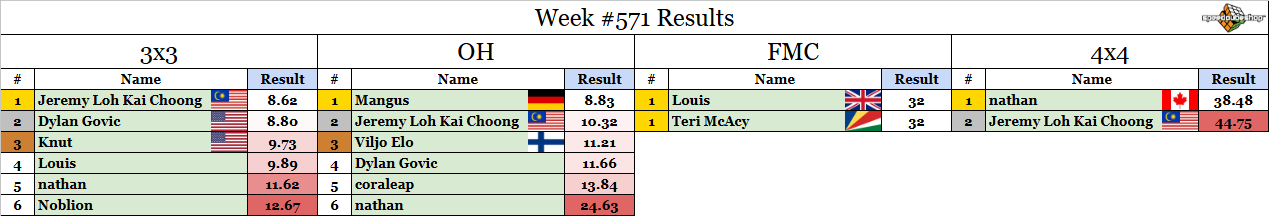
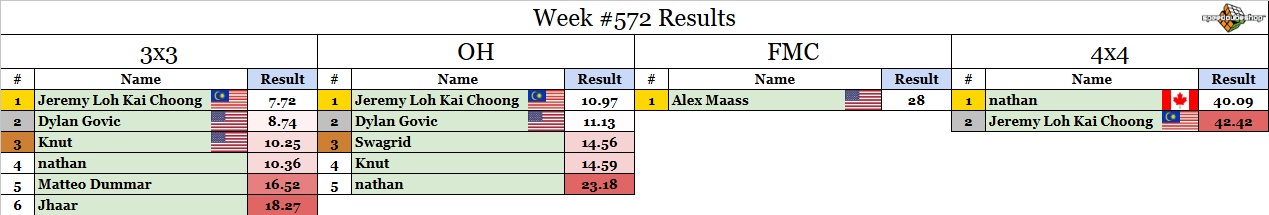
weekly comp update

diff --git a/src/weeklycomp/post.md b/src/weeklycomp/post.md
@@ -1,8 +1,8 @@
-## Weekly Competition #572 
+## Weekly Competition #573 
  
 This weekly competition is proudly sponsored by SpeedCubeShop.com. One competitor will be selected at random to receive a $5 SCS gift card! 
  
-Congrats to last week's winner by a random draw: **nathan**. DM me for the prize. 
+Congrats to last week's winner by a random draw: **Alex Maass**. DM me for the prize. 
  
 Check whether or not you participated this week yet at [https://bit.ly/RMSWeeklyCompSummary](https://bit.ly/RMSWeeklyCompSummary)  
  
@@ -16,30 +16,28 @@ Check whether or not you participated this week yet at [https://bit.ly/RMSWeekly
  7. The comp runs until Sunday 5pm Eastern time (more or less). Enter your times using the forms links below. 
  
 ### 3x3: [Submission Form](https://forms.gle/H5xoCWvGKnZ92fQt8) 
- 1. R' B L F' D2 F' R2 F D' L2 F2 R2 B L2 U2 B D2 B2 R2 
- 2. U2 B2 R' B2 L' D2 U2 F2 R2 D2 R' D2 B' U B2 U2 B' D' U2 L F' 
- 3. L F2 L2 U2 L2 D' U2 F2 L2 D' U' L' B2 U B' U2 F U2 L2 R 
- 4. F' D2 F2 R' F2 U2 L2 U2 L U2 R' F2 B D' U2 B2 R F L D2 
- 5. D2 U2 F D2 B D2 F L2 F D2 R2 D' B U B L2 F2 L F2 R' 
+ 1. B2 L D2 R' U2 L' R2 U2 L D2 B2 U2 F' U L' U B' R D F D' 
+ 2. B2 L U2 F' D B' U' L' F2 L' B2 L2 F2 L' U2 F2 D2 L2 F L' 
+ 3. D L D' R2 F2 R2 B2 U2 R2 D' L2 F2 D2 R D R' U2 R' B' U R' 
+ 4. R F U2 B2 R2 D' R2 U' L2 U' B2 D' L2 D' B' L R U2 F' R2 U2 
+ 5. B2 U2 L' R' D2 L' B2 F2 R D2 F2 R D' R' U B R' U L B U 
  
 ### OH: [Submission Form](https://forms.gle/UgRLW3K1d5KkMGfM9) 
- 1. U' R B L' F' R' D R2 D2 L' B2 U2 B2 R2 B2 R' B2 R D R2 
- 2. D' R B2 L2 D2 B2 R2 D' B2 U B2 D2 R2 B2 F' D' F2 R B F' D2 
- 3. U2 D R B U R' U D2 R F2 D2 B2 R D2 R D2 F2 U2 F2 D 
- 4. L2 D L2 U2 B U2 B L2 F' R2 B U2 L2 F' U' B L R2 B2 F U 
- 5. U B2 R' D' L2 R2 D' F2 D' R2 U B2 R2 F2 L' F R D2 R2 D' B 
+ 1. F2 L' B2 L2 D B2 U' R2 U' B2 R2 U B2 D2 F' D' L' B' D2 B F' 
+ 2. R2 F2 U B' L U2 L' B2 L2 U F2 R2 U F2 D2 L2 F2 U2 F' D 
+ 3. R2 D L' B2 U F' D' B D' F2 L D2 R U2 D2 L2 U2 B2 L F2 R2 
+ 4. D2 R' F2 L U2 R U2 R D2 U2 B D B R F2 U2 F' R' U 
+ 5. F D2 L D F' R D B2 R' D2 F2 R F2 L' D2 L' D2 F2 R2 U 
  
 ### FMC: [Submission Form](https://forms.gle/1P9VUgZmA1pibwvL9) 
- 1. R' U' F U' D L D' B' R' F' U D R2 F2 R2 D L2 F2 U F2 D2 F' L2 R' U' F 
+ 1. R' U' F L' D2 R2 F2 D2 F2 U2 F2 R2 F' U2 R2 L' F2 R' D' U2 B' U L' F2 R' U' F 
  
 ### 4x4: [Submission Form](https://forms.gle/bHNjncvEcPvFWBP2A) 
- 1. D2 R2 D2 L2 F2 U2 F' L2 F2 B2 D2 F U2 D L' D B U F U F' Rw2 D F2 Fw2 U' L Fw2 U2 R' B2 R' Fw2 Rw2 B2 Fw' U2 R D' Uw L2 Rw2 F2 Uw Fw' U2 
- 2. F D2 B2 R2 F2 R' D2 B2 D2 F2 R2 U' F' B D2 R U F2 U F2 Fw2 R F' Rw2 Fw2 R' F Uw2 F2 R' L' B2 D2 Uw' Rw2 U2 L B' Rw2 Uw Fw' U' Uw B Rw' 
- 3. F2 L' D2 L2 B D2 B2 D2 L2 F' U2 R2 B2 D' L F2 B' R D' L' D' Rw2 U' B' U' D L2 Rw2 F2 B' Fw2 Uw2 B2 Rw' F Uw2 Rw F D2 F2 Fw L' Uw Rw' B R' 
- 4. U2 F L2 F U2 L2 F2 R2 U2 B' U2 D2 L' B' D' L2 D2 L2 F2 B Rw2 U F2 Fw2 U2 L' Fw2 Rw2 D2 R U2 R Fw L' U D' F2 Uw' Rw' U F2 Fw2 Rw2 U2 D' 
- 5. F2 U F2 L' U' B2 R2 L F' U2 B2 R' L2 U2 L B2 R B2 Fw2 R Uw2 B' Rw2 B2 L' Uw2 B' R2 F' B' Uw' F' R2 D' Rw2 Fw' D L2 Uw Rw' Uw2 Fw 
+ 1. U' R2 U F2 D' B2 D' R2 B2 U D2 R' D' B L F' B' U' L B' D2 Rw2 Uw2 F2 Rw2 U' L' Uw2 R U2 D2 L' F Fw' D' F' L Uw' R2 B' Fw Rw2 Uw2 R' U2 
+ 2. D B2 R U2 R' B2 L B2 L' F2 B2 U2 D L' F B U2 R' F' U' B2 Fw2 L' B2 Fw2 L F L2 Uw2 B Rw2 B' L2 B' Uw' Rw2 D F' R2 Uw Fw R2 U Rw2 Uw Rw' 
+ 3. D' L' D' R F2 R' F2 R D2 F2 U2 R D2 F' B' L F U' R U2 Uw2 Fw2 U Fw2 R' Uw2 R2 L2 D2 Fw2 Rw2 D F' D' R' Fw L' D Rw' Fw' U2 L Rw2 Uw' 
+ 4. R2 D B2 D2 F2 R2 F2 D R2 D F' L' U R D F2 D R' L D' Fw2 L D' F2 U' Fw2 U Uw2 R' F2 D R2 U2 B' Fw L F2 D Rw' Fw L F Uw Rw' D2 Uw2 
+ 5. F2 B U' R2 U F' D B' L F2 D2 R U2 F2 U2 L D2 F2 R' U Fw2 R' Uw2 R Fw2 U B2 Rw2 D' L' D' Uw2 R2 B Fw' L' Uw2 L2 U' Fw Uw F2 Rw U Fw Uw2 
  
 ### Winning FMC solutions from last week: 
- 1. Louis, 32 moves: [SOLUTION](https://bit.ly/4s7bdiN) 
- 2. Teri McAcy, 32 moves: [SOLUTION](https://bit.ly/40nkXcG)
- 
+ 1. Alex Maass, 28 moves: [SOLUTION](https://bit.ly/3P9Dcju)
